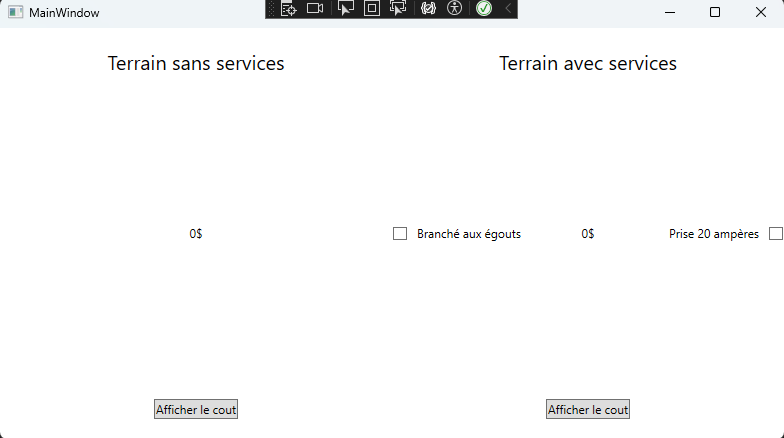
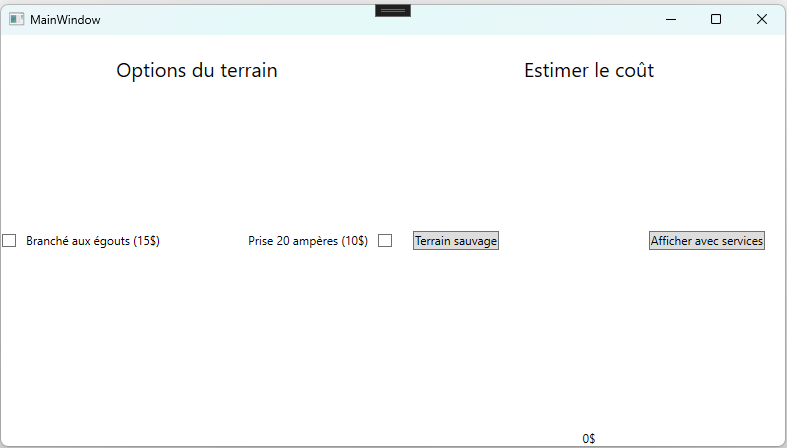
updated code>

diff --git a/Pratique/MainWindow.xaml b/Pratique/MainWindow.xaml
@@ -12,16 +12,15 @@
             <ColumnDefinition></ColumnDefinition>
         </Grid.ColumnDefinitions>
         <!--Col1-->
-        <TextBlock Text="Terrain sans services" FontSize="20" TextAlignment="Center" Margin="20"/>
-        <Button Content="Afficher le cout" VerticalAlignment="Bottom" HorizontalAlignment="Center" Click="OnTerrainSansServiceClick" Margin="20"/>
-        <TextBlock Text="0$" Name="TbTerrainSansService" VerticalAlignment="Center" HorizontalAlignment="Center"></TextBlock>
+        <TextBlock Text="Options du terrain" FontSize="20" TextAlignment="Center" Margin="20"/>
+        <Label Content="Branché aux égouts (15$)" VerticalAlignment="Center" Margin="20"/>
+        <CheckBox Name="CkBxAvecEgouts" VerticalAlignment="Center"  />
+        <Label Content="Prise 20 ampères (10$)" VerticalAlignment="Center" HorizontalAlignment="Right" Margin="20"/>
+        <CheckBox Name="CkBxAvec20A" VerticalAlignment="Center" HorizontalAlignment="Right" />
         <!--Col2-->
-        <TextBlock Grid.Column="1" Text="Terrain avec services" FontSize="20" TextAlignment="Center" Margin="20"/>
-        <Button Grid.Column="1" Content="Afficher le cout" VerticalAlignment="Bottom" HorizontalAlignment="Center" Click="OnTerrainAvecServicesClick" Margin="20"/>
-        <Label Grid.Column="1" Content="Branché aux égouts" VerticalAlignment="Center" Margin="20"/>
-        <CheckBox Grid.Column="1" Name="CkBxAvecEgouts" VerticalAlignment="Center"  />
-        <Label Grid.Column="1" Content="Prise 20 ampères" VerticalAlignment="Center" HorizontalAlignment="Right" Margin="20"/>
-        <CheckBox Grid.Column="1" Name="CkBxAvec20A" VerticalAlignment="Center" HorizontalAlignment="Right" />
-        <TextBlock Grid.Column="1" Text="0$" Name="TbTerrainAvecServices" VerticalAlignment="Center" HorizontalAlignment="Center"></TextBlock>
+        <TextBlock Grid.Column="1" Text="Estimer le coût" FontSize="20" TextAlignment="Center" Margin="20"/>
+        <TextBlock Grid.Column="1" Text="0$" Name="TbCoutEstime" VerticalAlignment="Bottom" HorizontalAlignment="Center"></TextBlock>
+        <Button    Grid.Column="1" Content="Terrain sauvage" VerticalAlignment="Center" HorizontalAlignment="Left" Click="OnTerrainSansServiceClick" Margin="20"/>
+        <Button    Grid.Column="1" Content="Afficher avec services" VerticalAlignment="Center" HorizontalAlignment="Right" Click="OnTerrainAvecServicesClick" Margin="20"/>
     </Grid>
 </Window>

diff --git a/Pratique/MainWindow.xaml.cs b/Pratique/MainWindow.xaml.cs
@@ -14,18 +14,24 @@ namespace Pratique
 
         private void OnTerrainSansServiceClick(object sender, RoutedEventArgs e)
         {
-            var terrainSauvage = new TerrainSauvage();
-            TbTerrainSansService.Text = terrainSauvage.CalculerCout().ToString("0.00$");
+            Service[] services = GetServicesFromWpfInterface();
+            var terrainSauvage = new TerrainSauvage(services);
+            TbCoutEstime.Text = terrainSauvage.CalculerCout().ToString("0.00$");
         }
 
         public void OnTerrainAvecServicesClick(object sender, RoutedEventArgs e)
         {
-            Service[] services = [
-                new Service(10, CkBxAvec20A.IsChecked.Value, "Electricité 20 ampères"),
-                new Service(15, CkBxAvecEgouts.IsChecked.Value, "Egouts")
-            ];
+            Service[] services = GetServicesFromWpfInterface();
             var terrainAvecServices = new TerrainAvecServices(services);
-            TbTerrainAvecServices.Text = terrainAvecServices.CalculerCout().ToString("0.00$");
+            TbCoutEstime.Text = terrainAvecServices.CalculerCout().ToString("0.00$");
+        }
+
+        private Service[] GetServicesFromWpfInterface()
+        {
+            return [
+                new Service(10, CkBxAvec20A.IsChecked.Value),
+                new Service(15, CkBxAvecEgouts.IsChecked.Value)
+            ];
         }
     }
 }

diff --git a/Pratique/TerrainSauvage.cs b/Pratique/TerrainSauvage.cs
@@ -2,12 +2,27 @@
 
 public class TerrainSauvage : ATerrain
 {
-    public TerrainSauvage() : base(30)
+    public TerrainSauvage(Service[] services) : base(services)
     {
     }
 
     public override double CalculerCout()
     {
-        return Cout;
+        double total = CoutDeBase;
+        double min = int.MaxValue;
+        for (int i = 0; i < Services.Length; i++)
+        {
+            if (Services[i].GetEstActif() && min > Services[i].GetCout())
+            {
+                min = Services[i].GetCout();
+            }
+        }
+
+        // si on ne choisi aucun des services, min sera = à max value
+        if (min != int.MaxValue)
+        {
+            total += min;
+        }
+        return total;
     }
 }

diff --git a/Pratique/Service.cs b/Pratique/Service.cs
@@ -3,23 +3,21 @@ namespace Pratique;
 
 public class Service
 {
-    private double Cout;
-    private bool EstActif;
-    private string Nom;
-    public Service(double cout, bool estActif, string nom)
+    private double _cout;
+    private bool _estActif;
+    public Service(double cout, bool estActif)
     {
-        Nom = nom;
-        Cout = cout;
-        EstActif = estActif;
+        _cout = cout;
+        _estActif = estActif;
     }
 
     public double GetCout()
     {
-        return Cout;
+        return _cout;
     }
 
     public bool GetEstActif()
     {
-        return EstActif;
+        return _estActif;
     }
 }

diff --git a/Pratique/TerrainAvecServices.cs b/Pratique/TerrainAvecServices.cs
@@ -2,18 +2,15 @@
 
 public class TerrainAvecServices : ATerrain
 {
-    private Service[] Services = new Service[2];
-
-
-    public TerrainAvecServices(Service[] services) : base(45)
+    public TerrainAvecServices(Service[] services) : base(services)
     {
-        Services = services;
+
     }
 
 
     public override double CalculerCout()
     {
-        double total = Cout;
+        double total = CoutDeBase;
         for (int i = 0; i < Services.Length; i++)
         {
             if (Services[i].GetEstActif())

diff --git a/Pratique/ATerrain.cs b/Pratique/ATerrain.cs
@@ -2,11 +2,13 @@
 
 public abstract class ATerrain
 {
-    protected double Cout;
+    protected double CoutDeBase;
+    protected Service[] Services = new Service[2];
 
-    public ATerrain(double cout)
+    public ATerrain(Service[] services)
     {
-        Cout = cout;
+        Services = services;
+        CoutDeBase = 30;
     }
 
     public abstract double CalculerCout();

diff --git a/readme.md b/readme.md
@@ -27,10 +27,13 @@ Voici le lien sur lucid chart : https://lucid.app/lucidchart/76288256-8168-4823-
 
 Tu dois créer une interface simple qui permet de calculer le prix d'un terrain de camping. Dans notre camping, il y a deux types principaux de terrains.
 
-1. Un terrain sans service qui est toujours 30$ sans taxes.
-2. Un terrain avec service qui est toujours 45$.
+De base, tous les terrains coûtent 30$.
 
-Le terrain avec service vient avec des services en option soit :
+1. Un terrain sauvage applique toujours le service qui est le plus cher. Le moins cher est gratuit.
+2. Un terrain avec service applique toujours le plein prix de services s'ils sont choisis.
+3. Il est possible de choisir ou non si on veut accéder au service.
+
+Voici le coût de chacun des services.
 1. Une borne d'électricité 20 ampères au coût de 10$
 2. Une connexion aux égouts au coût de 15$
 
@@ -56,12 +59,15 @@ Tu peux t'aider du lien sur lucid chart pour voir comment sont disposée les él
 
 ### La programmation des méthodes
 
-Voici quelques pistes pour t'aider à programmer ton travail.
+Voici quelques pistes pour t'aider à programmer ton travail. Lorsque tu cliques sur le bouton :
+
+1. Tu crées deux objets services que tu mets dans un tableau.
+2. Tu crées un objet terrain du bon type en passant en dans le constructeur les services. N'oublie pas l'utilisation de base:  `MonConstructeurDeMaClasseQuiHerite(Service[] services) : base(services)`
 
 Lorsque tu cliques sur le bouton pour afficher le coût, tu dois changer la valeur du TextBlock en te basant sur le coût retourné par la méthode `CalculerCout`.
+Cela va te permettre de créer un nouveau terrain avec de nouveaux services et d'ensuite calculer son coût. On va procéder de cette façon car je ne t'ai pas encore montré comment modifier les valeurs d'un objet dans un tableau.
 
 Afin de t'aider dans ta gestion des objets, **tu dois créer un nouvel objet à chaque fois que tu cliques sur le bouton** de l'interface WPF.
 
-Cela va te permettre de créer un nouveau terrain avec de nouveaux services et d'ensuite calculer son coût. On va procéder de cette façon car je ne t'ai pas encore montré comment modifier les valeurs d'un objet dans un tableau.
 
 Bonne programmation!
